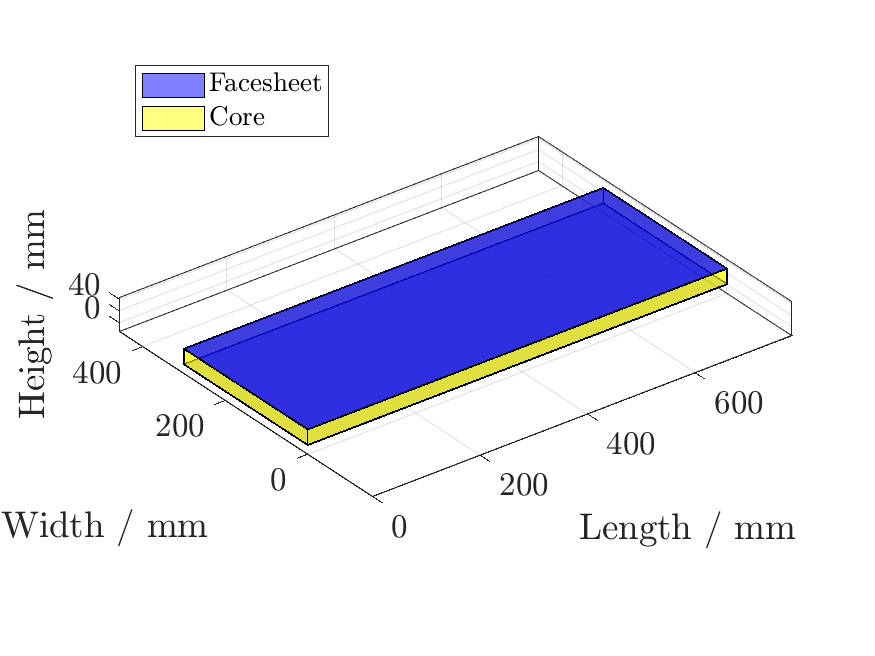
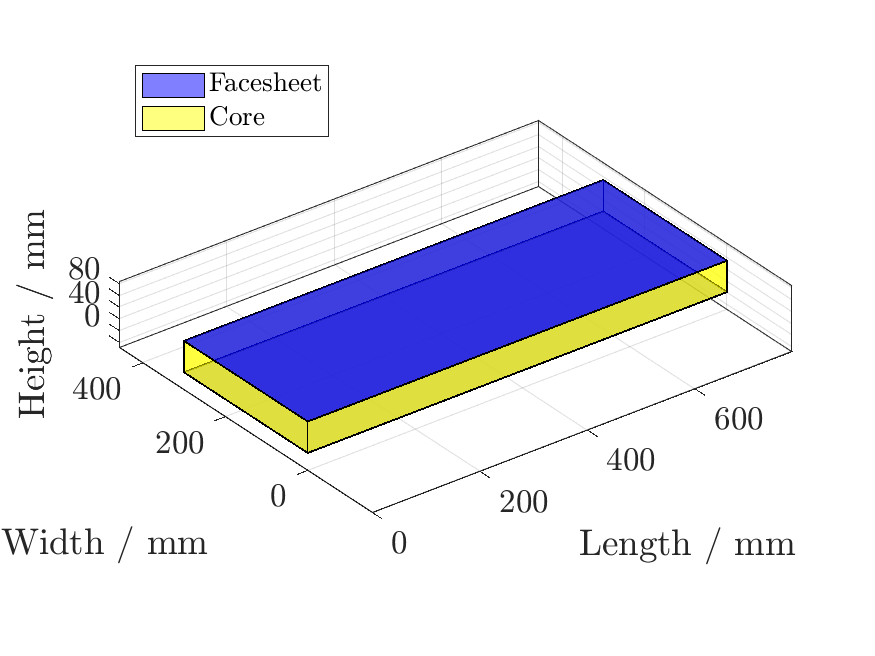
f

diff --git a/Monocoque/Side_Impact_Structure/TestStudy_SandwichStructure.m b/Monocoque/Side_Impact_Structure/TestStudy_SandwichStructure.m
@@ -17,12 +17,12 @@ close all
 % through the other facesheet
 
 %% Facesheet layup
-layup_iteration_0_s = [0 -45 45 0 90 0];
+layup_iteration_0_s = [0 0 90 0 -45 45 0 -45 +45 0];
 [A_0, B_0, D_0, ABD_0, Q_0, thickness_0] = ABD(layup_iteration_0_s);
 
 L = 780e-3;% Length of the structure in m
 b = 300e-3;% Depth of the beam, i.e. about the axis of bending in m
-c = 25e-3;% Thickness of the foam core
+c = 40e-3;% Thickness of the foam core
 
 %% Dimensions and properties
 E_c = psiToPa(65e3);% Modulus of the foam core in Pa

diff --git a/Monocoque/Side_Impact_Structure/AbaqusMeshConv.m b/Monocoque/Side_Impact_Structure/AbaqusMeshConv.m
@@ -3,7 +3,7 @@ clc
 close all
 
 x = [6 8 10 15 25 35 50];
-y = [782 779 730 700 405 372 222];
+y = [776 779 770 740 405 372 222];
 
 meshConv = figure;
 plot(x,y,"-")
